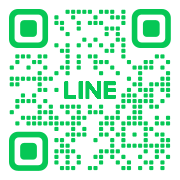
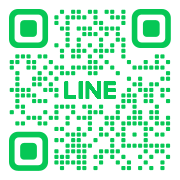
change line

diff --git a/index.html b/index.html
@@ -308,7 +308,8 @@
           </p>
           <div class="contact-actions">
             <a href="https://example.com/contact" class="btn primary">フォームで問い合わせ</a>
-            <a href="#line" class="btn ghost">LINEで相談</a>
+            <!--<a href="#line" class="btn ghost">LINEで相談</a>-->
+            <a href="https://lin.ee/g3XAwz3"><img src="https://scdn.line-apps.com/n/line_add_friends/btn/ja.png" alt="友だち追加" height="36" border="0"></a>
           </div>
         </div>
 
